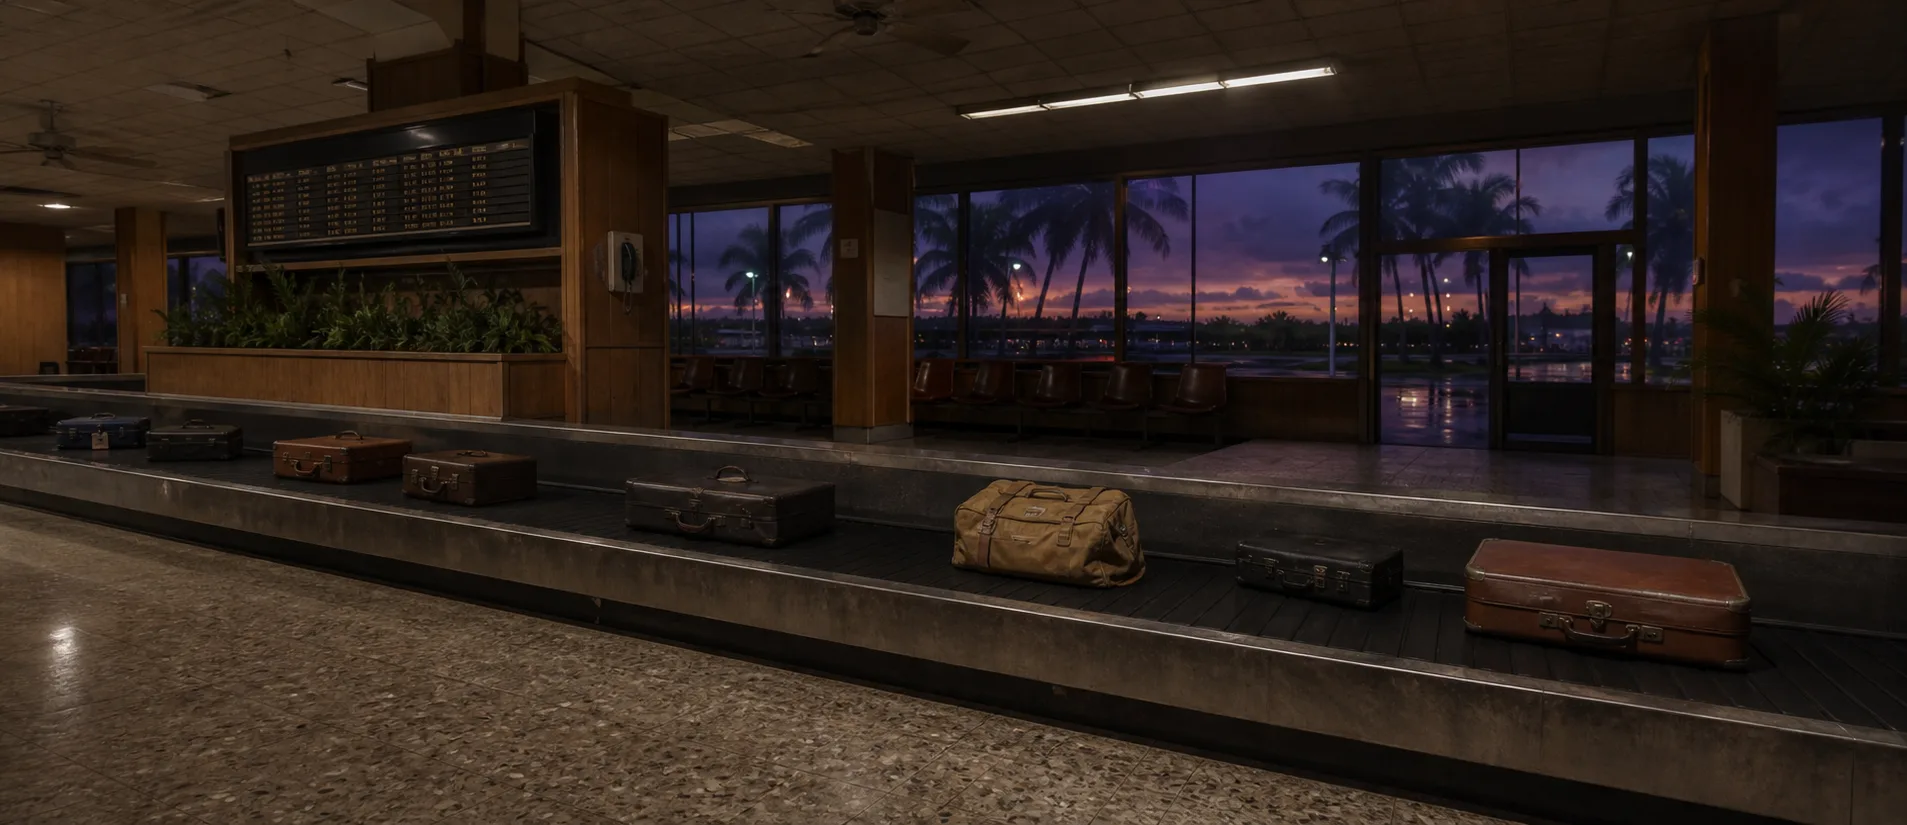
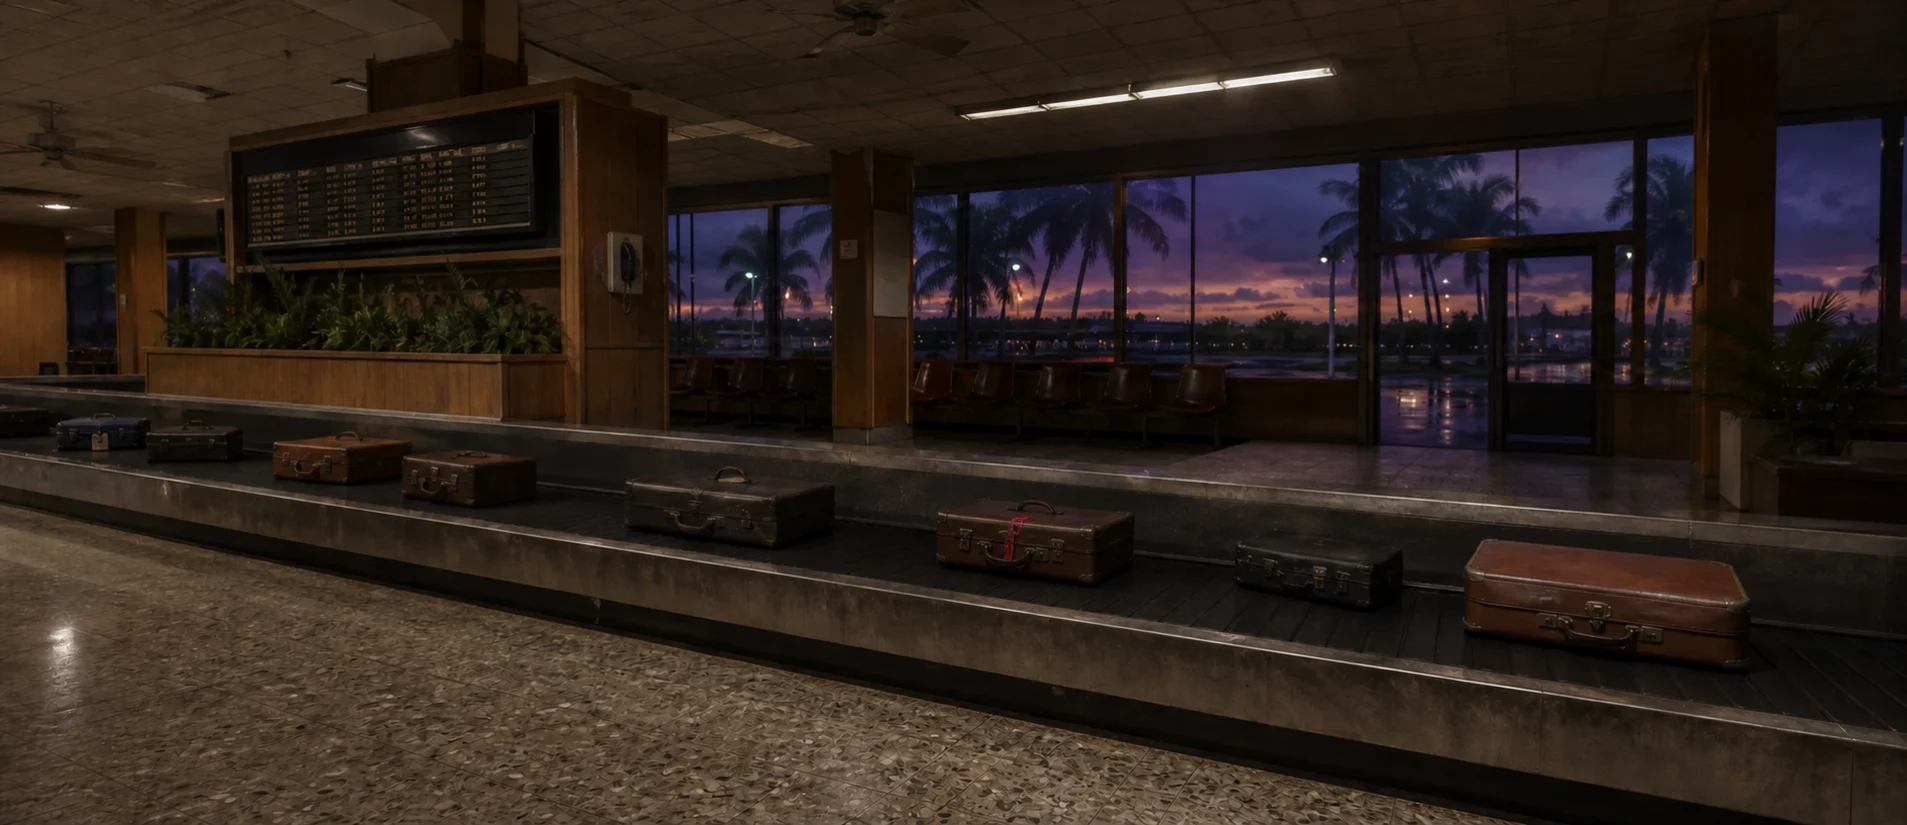
Revise baggage puzzle and add Fall 2026 syllabus

diff --git a/game.js b/game.js
@@ -1,6 +1,6 @@
 const scenes = [
   {id:'boot', place:'DARWIN / NORTHERN TERRITORY', date:'LATE 1980s', eye:'A COURSE ABOUT BEGINNING ELSEWHERE', title:'THE INTERNATIONAL<br>LIFE', copy:'Your journey begins in Darwin: an airport, a brother’s apartment, an anonymous mall, and a choice between whole cities hidden inside scratched cassettes.', button:'BEGIN ARRIVAL', objective:'Arrive before you understand the map.', observe:'Darwin is the beginning. The cassette will determine where the course opens next.', art:'<i class="sun"></i><i class="coast"></i><i class="plane"></i>'},
-  {id:'airport', place:'DARWIN INTERNATIONAL AIRPORT', date:'DAY 01 / 18:42', eye:'IMAGINED PROLOGUE / INTERACTIVE', title:'FIND YOUR<br>BAG', copy:'The conveyor shudders into motion. Your bag is the worn tan leather duffel near the center of the belt. Inspect the luggage and collect it.', button:'LOCATE YOUR BAG', objective:'Find the tan leather duffel on the moving belt.', observe:'Arrival begins with a small panic: every bag looks plausible until one detail makes it yours.', art:'<i class="window"></i><i class="belt"></i><i class="luggage luggage-a"></i><i class="luggage luggage-b"></i><i class="luggage luggage-c"></i><i class="bag"></i><i class="sign">ARRIVALS</i><i class="belt-direction">LUGGAGE →</i>'},
+  {id:'airport', place:'DARWIN INTERNATIONAL AIRPORT', date:'DAY 01 / 18:42', eye:'IMAGINED PROLOGUE / INTERACTIVE', title:'FIND YOUR<br>BAG', copy:'At check-in in the U.S., you confirmed that you packed the bag yourself. Mom wanted to tie a small red ribbon to its handle. You told her that was silly—you would recognize your own luggage. Now the conveyor shudders into motion, carrying bag after nearly identical bag.', button:"REMEMBER MOM'S ADVICE", objective:'Identify your suitcase among the similar bags.', observe:'Arrival begins with a small panic: recognition is easy until the familiar appears in multiples.', art:'<i class="window"></i><i class="belt"></i><i class="luggage luggage-a"></i><i class="luggage luggage-b"></i><i class="luggage luggage-c"></i><i class="bag"></i><i class="sign">ARRIVALS</i><i class="belt-direction">LUGGAGE →</i>'},
   {id:'arrivals', place:'DARWIN AIRPORT / MAIN ARRIVALS', date:'DAY 01 / 18:51', eye:'TOO MUCH INFORMATION', title:'FIND<br>YOUR WAY', copy:'Signs compete with voices, fluorescent light, luggage carts, advertisements, and the warm dusk beyond the doors. Your brother left an address near the Esplanade. Somewhere in the room is a person you can ask how to reach it.', button:'FIND THE INFORMATION DESK', objective:'Locate the information desk.', observe:'Competence abroad often begins with admitting that you do not know what to do next.', art:''},
   {id:'transit', place:'DARWIN / IN TRANSIT', date:'DAY 01 / 19:16', eye:'IN TRANSIT', title:'NO MAP<br>YET', copy:'Darwin passes in sodium light, palms, low buildings, and unfamiliar constellations.', button:'ARRIVE AT THE APARTMENT', objective:'Reach your brother’s apartment.', observe:'The route knows exactly where you are. You do not.', art:'<i class="road"></i><i class="mirror"></i><i class="lights"></i><i class="dash"></i>'},
   {id:'condo', place:"BROTHER'S APARTMENT / ABOVE THE BAR", date:'DAY 01 / 23:47', eye:'THE MUSIC COMES THROUGH THE FLOOR', title:"BROTHER'S<br>PLACE", copy:'The apartment sits directly above a bar. Bass thumps through the floor while a huge palm-tree sign outside the window flashes green, then yellow. An old caged ceiling fan swivels back and forth with the nightclub dancers below. Sleep will require earplugs.', button:'LOOK AROUND THE ROOM', objective:'Find the earplugs—and why the console cannot start.', observe:'The fan turns, the palm flashes, and the bass arrives through the bedframe. The glamorous foreign night becomes less glamorous at midnight.', art:'<i class="blinds"></i><i class="fan"></i><i class="balcony"></i><i class="apartment-console"></i><i class="apartment-glasses"></i><i class="apartment-gloves"></i><i class="apartment-note"></i>'},
@@ -84,18 +84,18 @@ function collectBag(){
   bagCollected=true;
   game.classList.add('bag-ready');
   $('#bag-status').textContent='COLLECTED';
-  objective.textContent='Carry the leather duffel into the arrivals hall.';
+  objective.textContent='Carry your suitcase into the arrivals hall.';
   action.disabled=false;
   action.innerHTML='ENTER MAIN ARRIVALS <span aria-hidden="true">→</span>';
   observation.hidden=false;
-  observation.textContent='That is yours. Leather duffel collected. Continue into the main arrivals hall.';
+  observation.textContent='The small red ribbon is still on the handle. Mom was right. Continue into the main arrivals hall.';
   game.querySelectorAll('.decoy-hotspot, .interaction-hint').forEach(element=>element.remove());
   const hotspot=$('.bag-hotspot'); if(hotspot){hotspot.classList.add('collected');hotspot.textContent='YOUR BAG — COLLECTED';hotspot.disabled=true;}
 }
 
 function rejectBag(label){
   observation.hidden=false;
-  observation.textContent=`${label} Not yours. Look for the worn tan leather duffel near the center of the belt.`;
+  observation.textContent=`${label} It looks like yours, but there is no red ribbon on the handle. Keep looking.`;
 }
 
 function guideToHotspot(selector,message){
@@ -189,13 +189,13 @@ function render(){
   }
   if(scene.id==='airport'){
     const hint=document.createElement('p'); hint.className='interaction-hint'; hint.textContent='SCAN THE PANORAMA · INSPECT THE LUGGAGE'; game.append(hint);
-    const decoys=[['decoy-hotspot decoy-a','Dark suitcase.'],['decoy-hotspot decoy-b','Dark brown suitcase.'],['decoy-hotspot decoy-c','Small brown case.']];
+    const decoys=[['decoy-hotspot decoy-a','This brown suitcase is about the right size.'],['decoy-hotspot decoy-b','This dark suitcase looks familiar.'],['decoy-hotspot decoy-c','This brown case could be yours.']];
     decoys.forEach(([className,label])=>{const decoy=document.createElement('button');decoy.type='button';decoy.className=className;decoy.setAttribute('aria-label',`Inspect ${label}`);decoy.innerHTML='<span aria-hidden="true">?</span>';decoy.addEventListener('click',()=>rejectBag(label));game.append(decoy);});
-    const hotspot=document.createElement('button'); hotspot.type='button'; hotspot.className='bag-hotspot'; hotspot.setAttribute('aria-label','Collect the tan leather duffel bag'); hotspot.innerHTML='<span>LEATHER DUFFEL</span><small>IS THIS YOUR BAG?</small>'; hotspot.addEventListener('click',collectBag); game.append(hotspot);
-    if(!bagCollected){action.innerHTML='SHOW ME THE LEATHER DUFFEL <span aria-hidden="true">→</span>';}
+    const hotspot=document.createElement('button'); hotspot.type='button'; hotspot.className='bag-hotspot'; hotspot.setAttribute('aria-label','Inspect suitcase with a small red ribbon on the handle'); hotspot.innerHTML='<span>INSPECT BAG</span><small>RED RIBBON ON HANDLE</small>'; hotspot.addEventListener('click',collectBag); game.append(hotspot);
+    if(!bagCollected){action.innerHTML='REMEMBER THE CHECK-IN <span aria-hidden="true">→</span>';}
     else {
       hotspot.classList.add('collected'); hotspot.textContent='YOUR BAG — COLLECTED'; hotspot.disabled=true;
-      objective.textContent='Carry the leather duffel into the arrivals hall.';
+      objective.textContent='Carry your suitcase into the arrivals hall.';
       action.innerHTML='ENTER MAIN ARRIVALS <span aria-hidden="true">→</span>';
     }
   }
@@ -264,7 +264,8 @@ function render(){
 
 function advance(){
   if(scenes[index].id==='airport'&&!bagCollected){
-    guideToHotspot('.bag-hotspot','The marked leather duffel is on the lower belt near the center. Select its LEATHER DUFFEL label to collect it.');
+    observation.hidden=false;
+    observation.textContent='Mom held up a little red ribbon. “Tie this to the handle—you will thank me later.” You laughed, but let her do it.';
     return;
   }
   if(scenes[index].id==='arrivals'&&!transportMode){openDesk();return;}

diff --git a/readiness.spec.js b/readiness.spec.js
@@ -2,7 +2,7 @@ const { test, expect } = require('@playwright/test');
 
 async function reachVendor(page, mode = 'taxi') {
   await page.getByRole('button', { name: /begin arrival/i }).click();
-  await page.getByRole('button', { name: /collect the tan leather duffel/i }).click();
+  await page.getByRole('button', { name: /small red ribbon/i }).click();
   await page.getByRole('button', { name: /enter main arrivals/i }).click();
   await page.getByRole('button', { name: 'Open the airport information desk' }).click();
   await page.getByRole('button', { name: new RegExp(mode, 'i') }).click();
@@ -35,11 +35,10 @@ for (const { viewport, tape, tapeShort } of [
     await expect(page.getByText(/scan the panorama/i)).toBeVisible();
     await expect(page.locator('.scene--airport .environment')).toHaveCSS('background-image', /darwin-baggage-carousel\.webp/);
     await expect(page.locator('.decoy-hotspot')).toHaveCount(3);
-    await page.getByRole('button', { name: /inspect dark suitcase/i }).click();
-    await expect(page.getByText(/not yours/i)).toBeVisible();
-    await page.getByRole('button', { name: /show me the leather duffel/i }).click();
-    await expect(page.getByText(/select its leather duffel label/i)).toBeVisible();
-    await expect(page.locator('.bag-hotspot')).toBeFocused();
+    await page.getByRole('button', { name: /looks familiar/i }).click();
+    await expect(page.getByText(/no red ribbon/i)).toBeVisible();
+    await page.getByRole('button', { name: /remember the check-in/i }).click();
+    await expect(page.getByText(/little red ribbon/i)).toBeVisible();
     await page.locator('.bag-hotspot').click();
     await expect(page.getByText('COLLECTED', { exact: true })).toBeVisible();
     await expect(page.getByRole('button', { name: /enter main arrivals/i })).toBeVisible();
@@ -178,7 +177,7 @@ for (const route of [
   test(`${route.mode} fare remains consequential through apartment arrival`, async ({ page }) => {
     await page.goto('http://127.0.0.1:4173');
     await page.getByRole('button', { name: /begin arrival/i }).click();
-    await page.getByRole('button', { name: /collect the tan leather duffel/i }).click();
+    await page.getByRole('button', { name: /small red ribbon/i }).click();
     await page.getByRole('button', { name: /enter main arrivals/i }).click();
     await page.getByRole('button', { name: 'Open the airport information desk' }).click();
     await page.getByRole('button', { name: new RegExp(route.mode, 'i') }).click();
@@ -203,7 +202,7 @@ test('supporting dialogs expose their visible headings as accessible names', asy
 test('baggage state and visited chapters survive backtracking', async ({ page }) => {
   await page.goto('http://127.0.0.1:4173');
   await page.getByRole('button', { name: /begin arrival/i }).click();
-  await page.getByRole('button', { name: /collect the tan leather duffel/i }).click();
+  await page.getByRole('button', { name: /small red ribbon/i }).click();
   await page.getByRole('button', { name: /enter main arrivals/i }).click();
 
   await page.getByRole('button', { name: /go to scene: darwin international airport/i }).click();

diff --git a/SYLLABUS.md b/SYLLABUS.md
@@ -1,0 +1,79 @@
+# The International Life — Fall 2026
+
+**FFYS 191SOM5, Section 01 · Faculty First-Year Seminar**  
+**Instructor:** Professor Matthew D. Langenkamp · Isenberg School of Management  
+**Meeting:** Friday, 9:05–9:55 a.m. · Herter Hall 117  
+**Office hours and contact:** To be added before distribution
+
+> Working syllabus draft. The dated schedule, contact details, assignment sheets, grade scale, and current UMass policy link will be added before distribution through Canvas.
+
+## Our course question
+
+**What would it mean to build part of your life outside the United States?**
+
+When I was nineteen, I left the United States to study Chinese in Taiwan. I did not know exactly what I was doing. That decision changed the trajectory of my life. This seminar explores what happens when young people step outside familiar cultures, learn languages, navigate systems whose rules they do not yet understand, and grow through discomfort. We begin by opening five “tapes”—small entrances into real places and lives—and end with each student making the Sixth Tape.
+
+This course will help you decide whether living abroad belongs in your life, identify realistic ways to make it possible during college, and develop practices for learning from a place rather than merely passing through it. You do not need prior international experience, and the course does not require you to commit to studying abroad.
+
+## What you will learn and make
+
+By the end of the seminar, you will be able to:
+
+- distinguish a packaged account of a place from one grounded in lived experience, attention, and ethical source work;
+- locate and use UMass people, offices, and programs that can support language study, study abroad, internships, advising, and academic success;
+- participate constructively in discussion, peer response, reflective writing, and help-seeking;
+- map how a place is connected to people, institutions, objects, misunderstandings, and consequences;
+- develop a realistic Global Pathway Map addressing timing, academic fit, language preparation, funding questions, access, human advisers, and one next action;
+- use a six-part learning-abroad practice—prepare, enter, notice, interpret, reciprocate, and return—to approach unfamiliar places with humility and purpose;
+- describe and practice habits of attention, reflection, and balance that support sustainable ambition; and
+- create an original **Sixth Tape**: a small researched portrait of a place that mattered to a real person.
+
+## The three First-Year Seminar practices
+
+- **Demystify College:** make advising, office hours, feedback, assignments, language study, internships, study abroad, and campus resources visible and usable.
+- **Make Connections:** build relationships through Tape Card introductions, structured peer dialogue, a campus-resource encounter, and an ethical conversation with a human source.
+- **Maintain Balance:** use attention, quiet, Buddhist philosophy in Taiwan and Korea, and the Temple Pause to examine how ambition can remain humane and sustainable.
+
+## How your learning will be assessed
+
+The course uses a simple 100-point structure:
+
+- Seminar presence and contribution — **25 points**
+- Six short Tape Notes — **20 points**
+- Global Pathway Map — **20 points**
+- Human-source conversation — **15 points**
+- Final Sixth Tape — **20 points**
+
+There is no textbook purchase and no exam. The Sixth Tape may be a three-minute audio or video piece, a six-slide visual essay, or a one-page digital artifact. It must include one real human source, three specific details, and a short source note; it does not require sophisticated multimedia production.
+
+## Thirteen-meeting course arc
+
+| Week | Meeting | Primary FFYS practice |
+|---:|---|---|
+| 1 | **The Mall and the Tape** — Tape Card introductions and the course question | Make Connections |
+| 2 | **Tape 1: Taipei '85 — Beginning Before You Are Ready** | Demystify College |
+| 3 | **How College Works** — study-abroad routes, language, advising, funding questions, and the first Global Pathway Map | Demystify College |
+| 4 | **Tape 2: Manila '86 — The Forced Adventure Beginning** | Make Connections |
+| 5 | **What Everyone Sees—Except Me** — Johari Window, feedback, and help-seeking | Demystify College |
+| 6 | **Tape 3: Old Kyoto — The Discipline of Attention** | Maintain Balance |
+| 7 | **Finding the Human Door** — campus resources and ethical interviewing | Make Connections |
+| 8 | **Tape 4: Stockholm — Trust Made Visible** — Sixth Tape pitch and pathway-feasibility revision | Make Connections |
+| 9 | **How Good Work Gets Made** — rubric, project stages, peer response, and appropriate AI use | Demystify College |
+| 10 | **Tape 5: Auckland–Otago Road — The Virtue of Quiet** | Maintain Balance |
+| 11 | **The Web of Connection** — source exchange and the learning-abroad cycle | Make Connections |
+| 12 | **The Cost of the International Life** — ambition, Buddhist philosophy, the Temple Pause, and a final-draft clinic | Maintain Balance |
+| 13 | **The Sixth Tape: Unlicensed Cargo** — gallery, next-action pathway map, and responsibility to a place | Make Connections |
+
+## How we will work together
+
+This is a small seminar. Its substance is produced partly through listening, conversation, and the presence of other people. If you must miss a meeting, contact me and we will identify a reasonable way to recover the important work. Two missed meetings may be recovered through short alternative responses.
+
+For smaller assignments, you may use two automatic 48-hour extensions during the semester without explaining why. If a larger difficulty arises, contact me early so that we can make the available options visible.
+
+Some meetings use an interactive website, but the opening experience is not an assessed test. A text transcript and accessible alternative provide the same participation credit. Laptops and phones will be useful during designated activities; during conversation, we will often put them away so that we can attend to one another.
+
+AI tools may help you brainstorm, organize, transcribe, translate, or edit when that assistance is acknowledged. They may not replace your human-source conversation, invent evidence or experience, or write your personal reflection. AI cannot have the encounter for you.
+
+Your Global Pathway Map may end with a feasible next step or a thoughtful “not now.” Studying abroad is an opportunity to investigate, not an obligation or a measure of ambition.
+
+Readings will be brief and supplied through Canvas. Canvas remains the official home for announcements, materials, submissions, grades, the dated schedule, and university policy information. The interactive course opening is hosted separately and linked from Canvas so that it can use the full browser window.

diff --git a/README.md b/README.md
@@ -1,5 +1,7 @@
 # The International Life interface
 
+The current working course syllabus is available in [`SYLLABUS.md`](SYLLABUS.md). Canvas will remain the official course home; this repository hosts the independent interactive opening and its public syllabus draft.
+
 ## Review locally
 
 From any directory on this Mac:
@@ -34,7 +36,7 @@ The tests use the installed Brave browser and cover the complete route at deskto
 - Read the story: open the accessible transcript
 - Sources & credits: review the imagined/adapted source boundary
 
-At baggage claim, the normal Continue action remains locked until the student identifies the worn tan leather duffel near the center of the restored panorama. The next arrivals-hall scene asks the student to locate the information desk, ask natural-language questions, and choose bus, shuttle, or taxi to the brother's apartment. A visible three-route fallback ensures the experience never depends on a conversational response. Taxi is the marked story route, while every choice deducts its fare from the A$50 wallet and carries the resulting balance forward.
+At baggage claim, the normal Continue action remains locked until the student distinguishes their suitcase from several similar bags. A memory of checking the bag in with Mom supplies the clue: she tied a small red ribbon to the handle after the student insisted they would recognize their own luggage. The correct suitcase carries that ribbon; plausible lookalikes invite inspection without being labeled as wrong in advance. The next arrivals-hall scene asks the student to locate the information desk, ask natural-language questions, and choose bus, shuttle, or taxi to the brother's apartment. A visible three-route fallback ensures the experience never depends on a conversational response. Taxi is the marked story route, while every choice deducts its fare from the A$50 wallet and carries the resulting balance forward.
 
 At the brother's apartment above the bar, an original procedural soundtrack links two spaces on one continuous timeline. The bar combines a late-1980s-inspired kick, bass line, hi-hat, room noise, and indistinct crowd murmur. Upstairs, the same sound is quieter and heavily filtered through the floor. Putting in the earplugs mutes the bedroom; taking the house keys opens an optional visit to the bar below. At the bar, a bounded conversational bartender accepts typed questions and offers visible conversation starters; it runs locally so the static experience never depends on an external AI service. The student can also inspect the console, wired glasses, and gloves, but the cassette slot is empty. Reading the brother's note unlocks the separate walk-to-mall transition and changes the destination to the Darwin Free Trade Zone.
 
